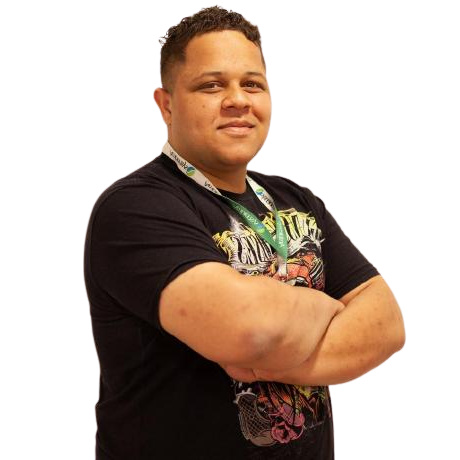
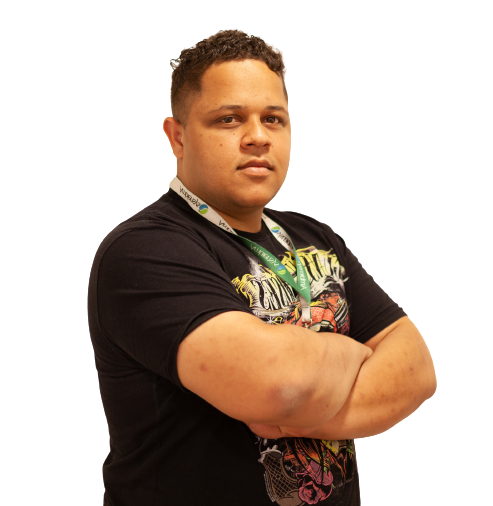
Commit finish about

Changed region(s): [[0.1826, 0.0, 0.8826, 1.0], [0.1522, 0.5478, 0.2435, 1.0], [0.3043, 0.5174, 0.3348, 0.5478]]

diff --git a/index.html b/index.html
@@ -26,16 +26,39 @@
         </ul>
     </header>
 
+    <!--Home-->
     <section class="home" id="home">
         <div class="home-text">
-            <span>Olá,</span>
-            <h1>Eu sou Murilo Santos</h1>
+            <span>Olá, eu sou</span>
+            <h1>Murilo Santos</h1>
             <h2>Programador Full Stack</h2>
-            <p>Técnico em informática formado pelo Senai, Bacharel em Sistemas de Informação<br/>e Pós Graduado em Desenvolvimento Web Full Stack</p>
+            <p>Desenvolvedor Web e Mobile.</p>
             <a href="#" class="btn">Me contrate</a>
         </div>
         <div class="home-img">
             <img src="images/profile.png" alt="">
+        </div>
+    </section>
+
+    <!--About-->
+    <section class="about" id="about">
+        <div class="about-title">
+            <h1><span>Sobre</span> Mim</h1>
+            <h2>Introdução</h2>
+            <div class="about-img">
+                <img src="images/about.png" alt="">
+            </div>
+        </div>
+        <div class="about-text">
+            <p>Olá, meu nome é Murilo Santos, trabalho como desenvolvedor full stack pleno em Curitiba-PR. Sou Técnico em informática 
+            formado pelo Senai, Bacharel em Sistemas de Informação pela IEL e Pós Graduado em Desenvolvimento Web Full Stack pela Unyleya.</p>
+            <p>Hoje estudo React e Node e trabalho como construtor de sites, lojas virtuais, sistemas e aplicativos web!</p>
+            <div class="social">
+                <a href="https://www.facebook.com/murilo.nsantos17/" target="_blank"><i class='bx bxl-facebook-circle'></i></a>
+                <a href="https://www.instagram.com/dev.murilo/" target="_blank"><i class='bx bxl-instagram'></i></a>
+                <a href="https://api.whatsapp.com/send?phone=5541995853913&text=Ol%C3%A1,%20estou%20entrando%20em%20contato%20para%20desenvolver%20alguma%20solu%C3%A7%C3%A3o.%20" target="_blank"><i class='bx bxl-whatsapp' ></i></a>
+                <a href="https://github.com/MuriloNSantos17" target="_blank"><i class='bx bxl-github'></i></a> 
+            </div>
         </div>
     </section>
     

diff --git a/style.css b/style.css
@@ -19,7 +19,7 @@
 
 
 section{
-    padding: 70px 10%;
+    padding: 50px 10%;
 }
 
 img{
@@ -103,4 +103,103 @@ header{
     grid-template-columns:repeat(auto-fit,minmax(17rem,1fr));
     align-items: center;
     gap: 1.5rem;
+}
+
+.home-text h1{
+    font-size: 3.4rem;
+    color: var(--main-color);
+}
+
+.home-text h2{
+    font-size: 1.6rem;
+    font-weight: bolder;
+}
+
+.home-text p{
+    font-weight: 400;
+    margin: 0.7rem 0 1rem;
+}
+
+.home-img{
+    padding: 40px;
+}
+
+.btn{
+    display: inline-block;
+    background: var(--text-color);
+    padding: 0.8rem 2rem;
+    color: #fff;
+    font-weight: 500;
+}
+
+.btn:hover{
+    background: var(--main-color);
+    letter-spacing: 2px;
+    transition: 0.2s;
+}
+
+.about{
+    display: grid;
+    grid-template-columns: repeat(auto-fit,minmax(17rem, 1fr));
+    gap: 1.5rem;
+}
+
+.about-title{
+    display: flex;
+    flex-direction: column;
+    align-items: center;
+    text-align: center;
+}
+
+.about-title h1{
+    color: var(--main-color);
+    font-size: 1.7rem;
+}
+
+.about-title span{
+    border-bottom: 3px solid var(--main-color);
+}
+
+.about-title h2{
+    font-size: 1rem;
+    font-weight: 500;
+}
+
+.about-img{
+    width: 150px;
+    height: 150px;
+    margin-top: 2rem;
+}
+
+.about-img img{
+    width: 100%;
+    height: 100%;
+    border-radius: 50%;
+    object-fit: cover;
+    object-position: center;
+    background: var(--main-color);
+}
+
+.social{
+    display: flex;
+    align-items: center;
+    margin-top: 1rem;
+}
+
+.social a .bx{
+    margin-right: 1rem;
+    font-size: 24px;
+    color: #fff;
+    padding: 10px;
+    border-radius: 4px;
+    background: var(--text-color);
+}
+
+.social a .bx:hover{
+    background-color: var(--main-color);
+}
+
+.about-text p{
+    text-align: justify;
+    margin-bottom: 1rem;
 }
